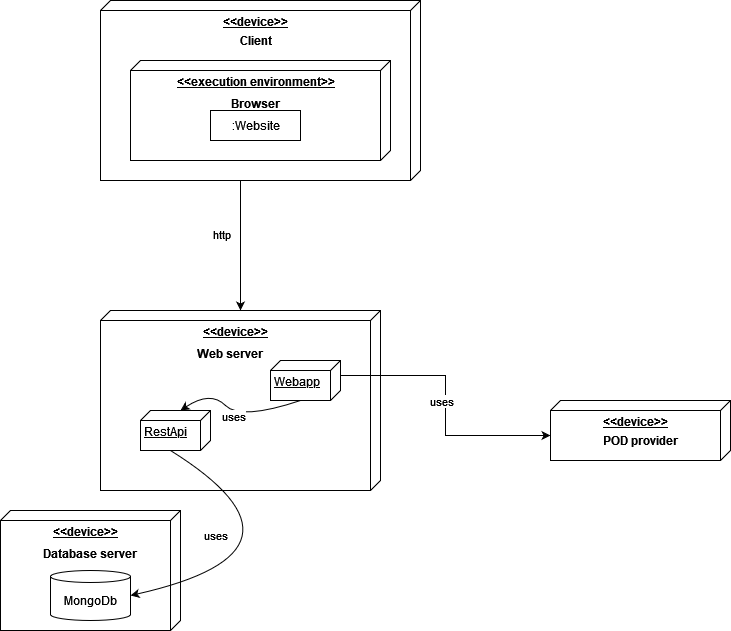
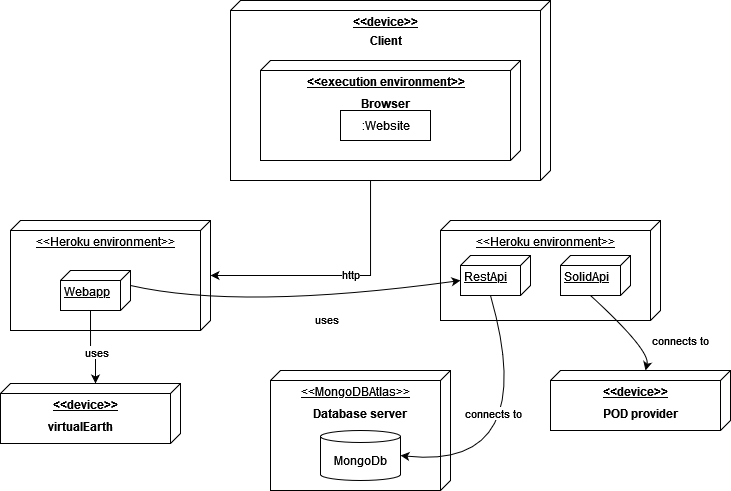
Updates

diff --git a/index.html b/index.html
@@ -1074,6 +1074,10 @@ The API as interfaces with MongoDB to store and retrieve data, while the Solid A
 <td class="tableblock halign-left valign-top"><p class="tableblock">Where we host our app, all browsers should be compatible.</p></td>
 </tr>
 <tr>
+<td class="tableblock halign-left valign-top"><p class="tableblock">Virtual Earth</p></td>
+<td class="tableblock halign-left valign-top"><p class="tableblock">A service to introduce addresses and get the distance from our warehouse to the destination of the order</p></td>
+</tr>
+<tr>
 <td class="tableblock halign-left valign-top"><p class="tableblock">Pod provider</p></td>
 <td class="tableblock halign-left valign-top"><p class="tableblock">Solid Pods can be provided by any provider that implements the Solid protocol.</p></td>
 </tr>
@@ -1083,7 +1087,7 @@ The API as interfaces with MongoDB to store and retrieve data, while the Solid A
 </tr>
 <tr>
 <td class="tableblock halign-left valign-top"><p class="tableblock">RestApi</p></td>
-<td class="tableblock halign-left valign-top"><p class="tableblock">The back-end of our application.</p></td>
+<td class="tableblock halign-left valign-top"><p class="tableblock">The back-end of our application. It&#8217;s made up of two apis, one that connects to the database to save/fetch data from it and the other connects to solid and fetches/writes data.</p></td>
 </tr>
 <tr>
 <td class="tableblock halign-left valign-top"><p class="tableblock">Database server</p></td>
@@ -1125,6 +1129,10 @@ The API as interfaces with MongoDB to store and retrieve data, while the Solid A
 <tr>
 <td class="tableblock halign-left valign-top"><p class="tableblock">Development environment</p></td>
 <td class="tableblock halign-left valign-top"><p class="tableblock">The back-end and front-end will be hosted locally, in order to not make many changes on the deployment host.</p></td>
+</tr>
+<tr>
+<td class="tableblock halign-left valign-top"><p class="tableblock">Virtual Earth</p></td>
+<td class="tableblock halign-left valign-top"><p class="tableblock">A service to introduce addresses and get the distance from our warehouse to the destination of the order</p></td>
 </tr>
 <tr>
 <td class="tableblock halign-left valign-top"><p class="tableblock">Pod provider</p></td>
@@ -1558,7 +1566,7 @@ Created by Dr. Peter Hruschka &amp; Dr. Gernot Starke.</p>
 </div>
 <div id="footer">
 <div id="footer-text">
-Last updated 2022-05-04 00:35:41 +0200
+Last updated 2022-05-04 18:31:45 +0200
 </div>
 </div>
 </body>
